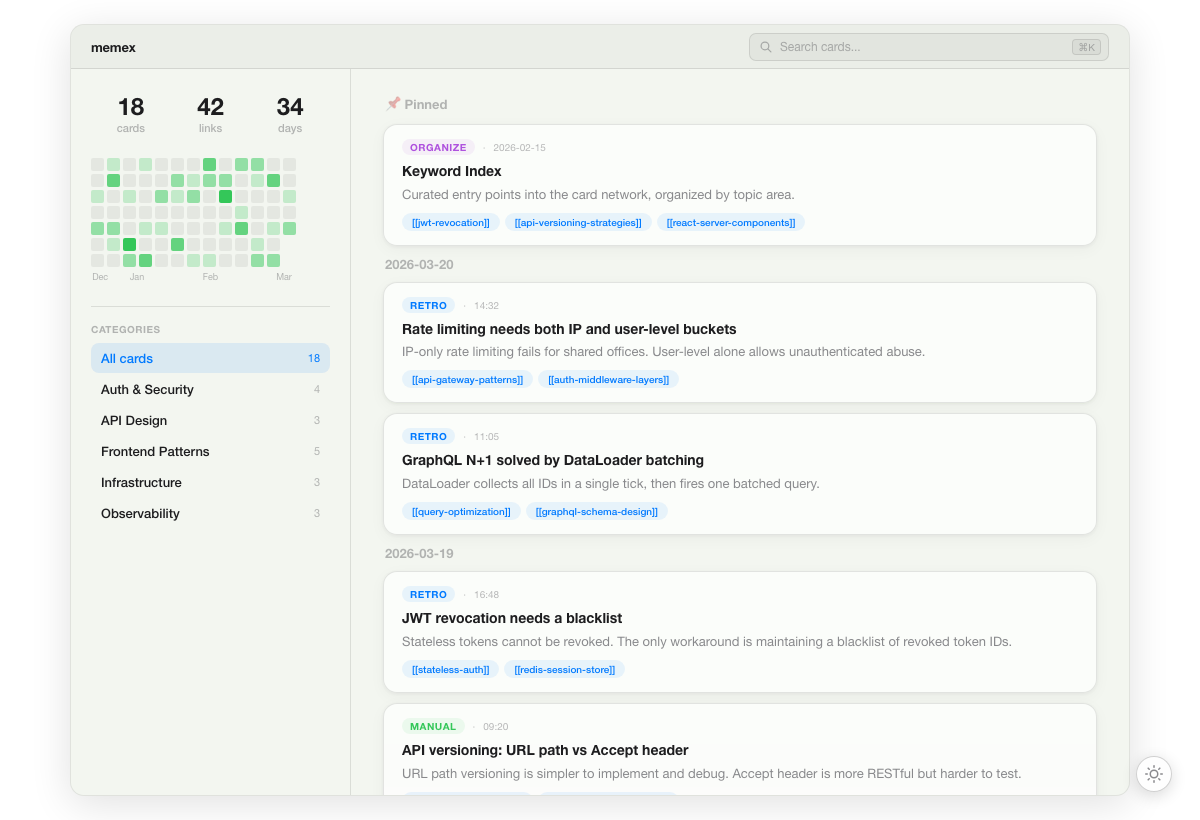
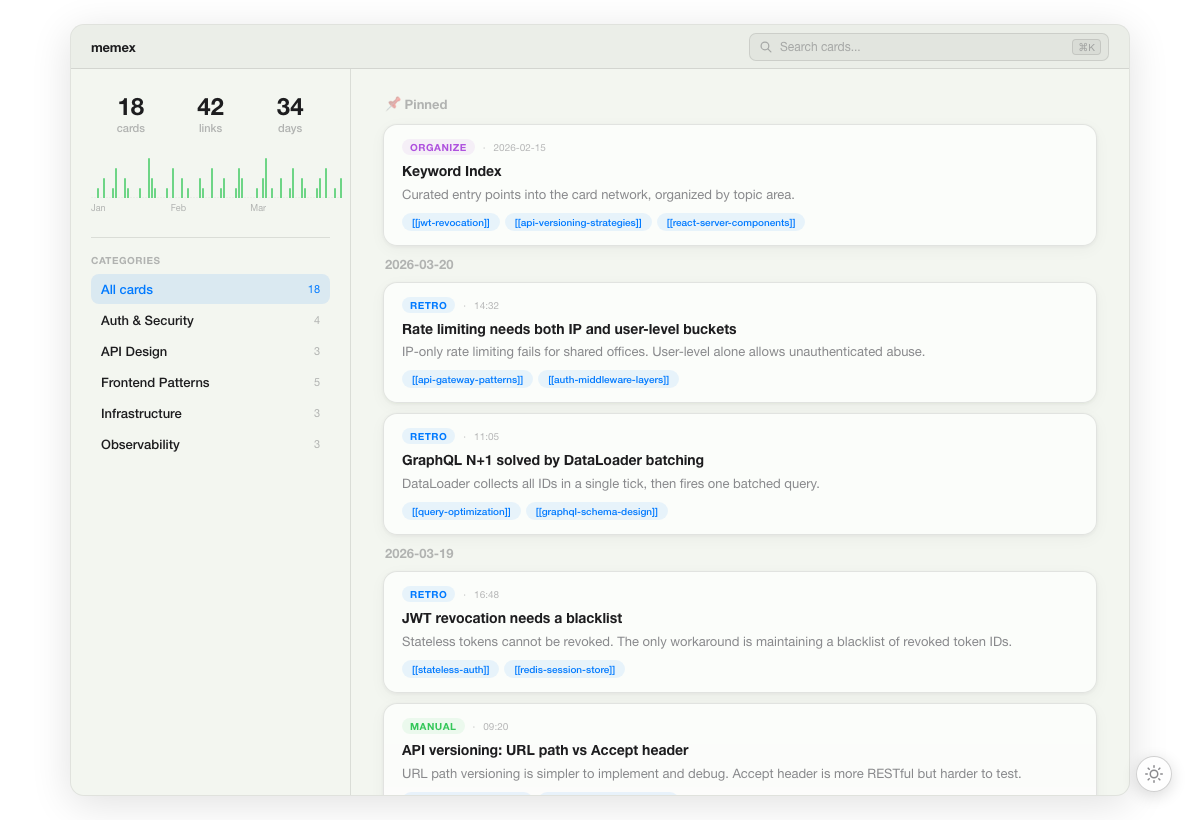
feat: replace GitHub-style heatmap with bar sparkline

Changed region(s): [[0.0617, 0.1829, 0.2775, 0.6402]]

diff --git a/src/commands/serve-ui.html b/src/commands/serve-ui.html
@@ -130,14 +130,7 @@ body::-webkit-scrollbar { display: none; }
 [data-theme="midnight"] .cat-item.active {
   background: rgba(0,122,255,0.15);
 }
-[data-theme="midnight"] .heatmap-cell {
-  background: rgba(255,255,255,0.08) !important;
-}
-[data-theme="midnight"] .heatmap-cell.l1 { background: rgba(52,199,89,0.25) !important; }
-[data-theme="midnight"] .heatmap-cell.l2 { background: rgba(52,199,89,0.45) !important; }
-[data-theme="midnight"] .heatmap-cell.l3 { background: rgba(52,199,89,0.65) !important; }
-[data-theme="midnight"] .heatmap-cell.l4 { background: rgba(52,199,89,0.9) !important; }
-[data-theme="midnight"] .heatmap-months span { color: rgba(255,255,255,0.3); }
+[data-theme="midnight"] .spark-months span { color: rgba(255,255,255,0.3); }
 [data-theme="midnight"] .date-header { color: rgba(255,255,255,0.4); }
 [data-theme="midnight"] .card-body-inner code { background: rgba(255,255,255,0.1); }
 [data-theme="midnight"] .card-body-inner pre { background: rgba(255,255,255,0.06); }
@@ -260,39 +253,44 @@ body::-webkit-scrollbar { display: none; }
   margin-top: 2px;
 }
 
-/* Heatmap */
+/* Sparkline */
 .heatmap-wrap {
   margin-bottom: 24px;
 }
-.heatmap-grid {
+.spark-chart {
   display: flex;
-  gap: 3px;
+  align-items: flex-end;
+  gap: 1.5px;
+  height: 40px;
+  padding: 0;
 }
-.heatmap-col {
-  display: flex;
-  flex-direction: column;
-  gap: 3px;
+.spark-bar {
+  flex: 1;
+  min-width: 1.5px;
+  border-radius: 1px 1px 0 0;
+  background: var(--green);
+  opacity: 0.7;
+  transition: opacity 0.15s ease;
 }
-.heatmap-cell {
-  width: 13px;
-  height: 13px;
-  border-radius: 2px;
-  background: rgba(0,0,0,0.06);
+.spark-bar:hover {
+  opacity: 1;
 }
-.heatmap-cell.l1 { background: rgba(52,199,89,0.25); }
-.heatmap-cell.l2 { background: rgba(52,199,89,0.5); }
-.heatmap-cell.l3 { background: rgba(52,199,89,0.75); }
-.heatmap-cell.l4 { background: #34c759; }
-.heatmap-months {
+.spark-bar.empty {
+  background: rgba(0,0,0,0.05);
+  opacity: 1;
+}
+[data-theme="midnight"] .spark-bar.empty {
+  background: rgba(255,255,255,0.06);
+}
+.spark-months {
   display: flex;
   margin-top: 4px;
   font-size: 9px;
   color: var(--label-3);
-  padding-left: 0;
 }
-.heatmap-months span {
+.spark-months span {
   flex: 1;
-  text-align: center;
+  text-align: left;
 }
 
 /* Separator */
@@ -738,9 +736,8 @@ body::-webkit-scrollbar { display: none; }
     renderTimeline();
   }
 
-  // ---- Heatmap ----
+  // ---- Sparkline ----
   function buildHeatmap() {
-    // Count activity per day from created/modified
     const counts = {};
     allCards.forEach(c => {
       [c.created, c.modified].forEach(d => {
@@ -751,76 +748,39 @@ body::-webkit-scrollbar { display: none; }
     });
 
     const today = new Date();
-    // Start from 12 weeks ago, aligned to Monday
+    const days = 84; // 12 weeks
     const start = new Date(today);
-    start.setDate(start.getDate() - (12 * 7 - 1));
-    // Align to Monday (1=Mon)
-    const dow = start.getDay();
-    const mondayOffset = dow === 0 ? -6 : 1 - dow;
-    start.setDate(start.getDate() + mondayOffset);
+    start.setDate(start.getDate() - days + 1);
 
-    const weeks = [];
+    const bars = [];
     const d = new Date(start);
     while (d <= today) {
-      const week = [];
-      for (let i = 0; i < 7; i++) {
-        const ds = d.toISOString().slice(0, 10);
-        const count = counts[ds] || 0;
-        const future = d > today;
-        week.push({ date: ds, count, future });
-        d.setDate(d.getDate() + 1);
-      }
-      weeks.push(week);
+      const ds = d.toISOString().slice(0, 10);
+      bars.push({ date: ds, count: counts[ds] || 0 });
+      d.setDate(d.getDate() + 1);
     }
 
-    // Determine max for scaling
-    const maxCount = Math.max(1, ...Object.values(counts));
-    function level(count) {
-      if (count === 0) return '';
-      const ratio = count / maxCount;
-      if (ratio <= 0.25) return 'l1';
-      if (ratio <= 0.5) return 'l2';
-      if (ratio <= 0.75) return 'l3';
-      return 'l4';
-    }
+    const maxCount = Math.max(1, ...bars.map(b => b.count));
 
-    let html = '<div class="heatmap-grid">';
-    weeks.forEach(week => {
-      html += '<div class="heatmap-col">';
-      week.forEach(cell => {
-        if (cell.future) {
-          html += '<div class="heatmap-cell" style="visibility:hidden"></div>';
-        } else {
-          const lv = level(cell.count);
-          const title = cell.date + ': ' + cell.count + ' activities';
-          html += '<div class="heatmap-cell ' + lv + '" title="' + title + '"></div>';
-        }
-      });
-      html += '</div>';
+    let html = '<div class="spark-chart">';
+    bars.forEach(b => {
+      const pct = b.count > 0 ? Math.max(8, (b.count / maxCount) * 100) : 4;
+      const cls = b.count === 0 ? 'spark-bar empty' : 'spark-bar';
+      const title = b.date + ': ' + b.count + ' activities';
+      html += '<div class="' + cls + '" style="height:' + pct + '%" title="' + title + '"></div>';
     });
     html += '</div>';
 
     // Month labels
     const months = ['Jan','Feb','Mar','Apr','May','Jun','Jul','Aug','Sep','Oct','Nov','Dec'];
-    const seenMonths = [];
+    const seen = [];
     let lastMonth = -1;
-    weeks.forEach((week, wi) => {
-      const m = new Date(week[0].date).getMonth();
-      if (m !== lastMonth) {
-        seenMonths.push({ index: wi, label: months[m] });
-        lastMonth = m;
-      }
+    bars.forEach((b, i) => {
+      const m = new Date(b.date).getMonth();
+      if (m !== lastMonth) { seen.push({ i, label: months[m] }); lastMonth = m; }
     });
-    html += '<div class="heatmap-months">';
-    let mi = 0;
-    weeks.forEach((_, wi) => {
-      if (mi < seenMonths.length && seenMonths[mi].index === wi) {
-        html += '<span>' + seenMonths[mi].label + '</span>';
-        mi++;
-      } else {
-        html += '<span></span>';
-      }
-    });
+    html += '<div class="spark-months">';
+    seen.forEach(s => { html += '<span>' + s.label + '</span>'; });
     html += '</div>';
 
     document.getElementById('heatmap').innerHTML = html;
